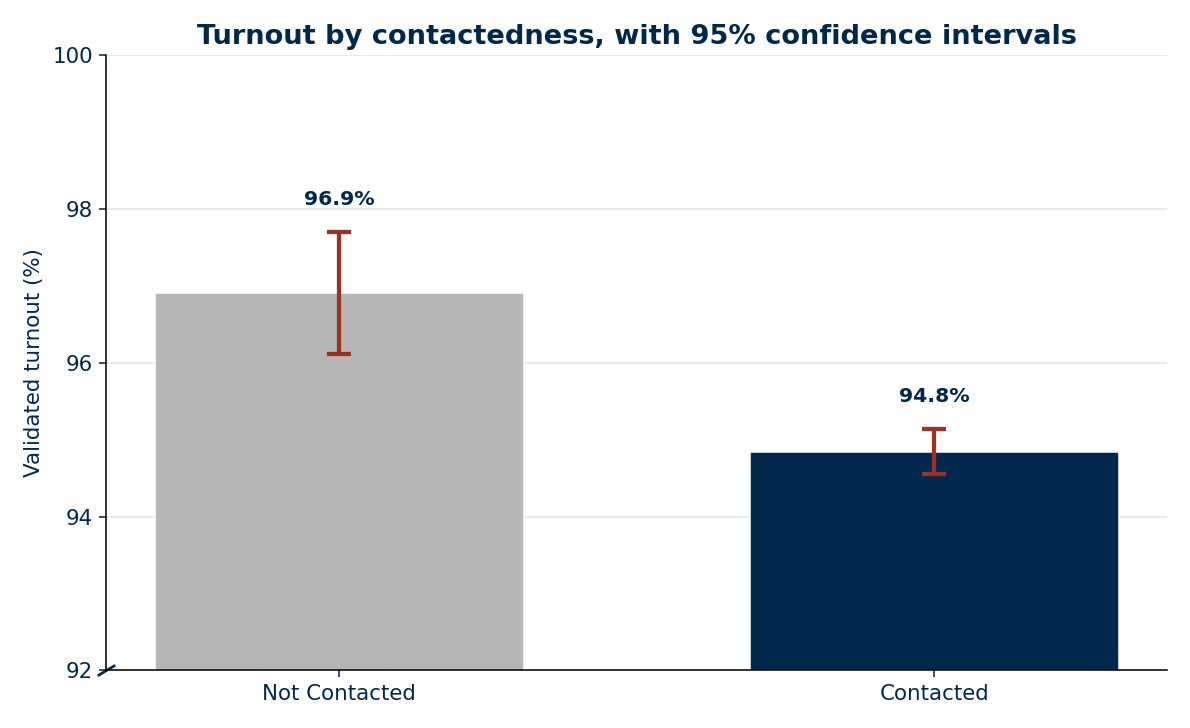
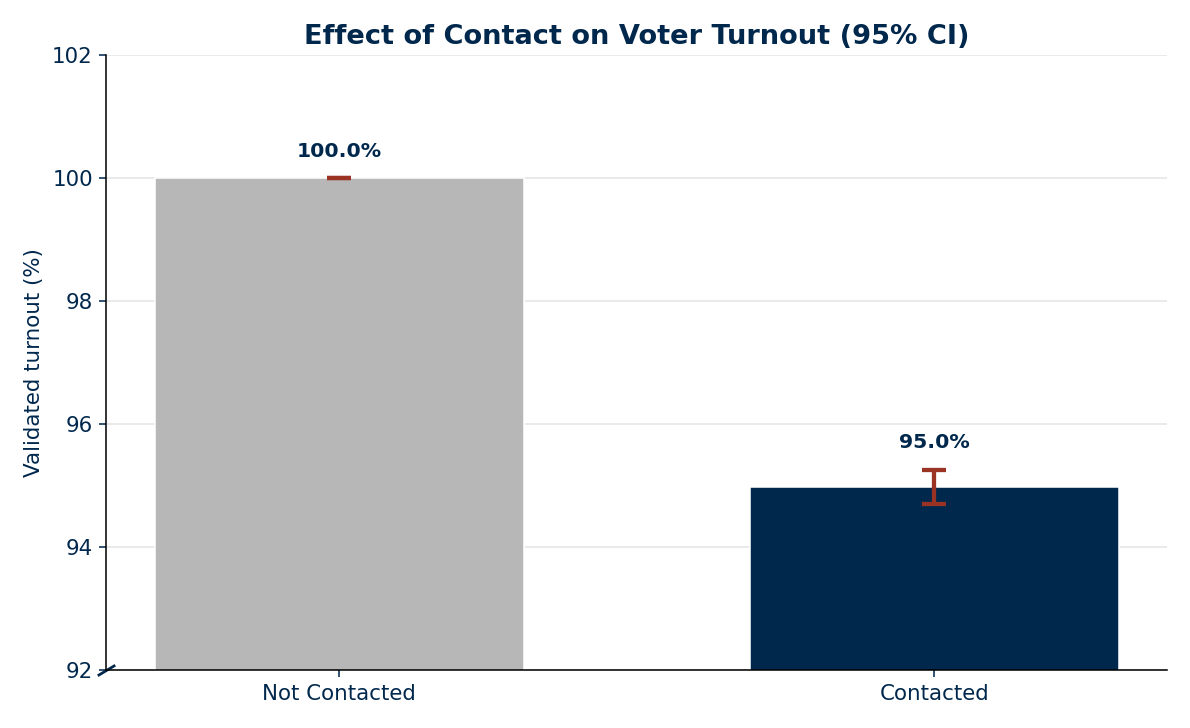
Updated figure 2's color of effect

diff --git a/capstone/visualization/report_fig4_real.py b/capstone/visualization/report_fig4_real.py
@@ -24,7 +24,7 @@ from typing import Any, cast
 from capstone.data_cleaning import load_full_dataframe
 from capstone.helper_functions import load_model_config, setup_logger
 from capstone.logistic_regression import train_model
-from capstone.visualization.visuals import OUTPUT_DIR, PLT_PARAMS, ColorScheme
+from capstone.visualization.visuals import OUTPUT_DIR, PLT_PARAMS, ColorScheme, ensure_output_dir
 
 REFERENCE_ID_LAW = "No Document Required to Vote"
 
@@ -203,12 +203,14 @@ def fig_marginal_effects(effects: DataFrame) -> None:
     y_positions = np.arange(len(effects) - 1, -1, -1)
 
     for y_position, row in zip(y_positions, effects.itertuples()):
-        point_color = ColorScheme.TAPPAN_RD if row.type == "strictness" else ColorScheme.UM_BLUE
 
         # Force float types
         effect = float(cast(Any, row.effect))
         lower = float(cast(Any, row.lower))
         upper = float(cast(Any, row.upper))
+
+        # Determine point color based on effect
+        point_color = ColorScheme.TAPPAN_RD if effect < 0 else ColorScheme.UM_BLUE
 
         lower_error = effect - lower
         upper_error = upper - effect
@@ -270,7 +272,7 @@ def fig_marginal_effects(effects: DataFrame) -> None:
 def generate_fig4(config: dict[Any, Any]) -> None:
     """Fit the logistic regression and create Figure 4."""
 
-    OUTPUT_DIR.mkdir(exist_ok=True)
+    ensure_output_dir()
 
     df = load_full_dataframe(config)
 

diff --git a/capstone/visualization/report_fig1_real.py b/capstone/visualization/report_fig1_real.py
@@ -13,7 +13,14 @@ from typing import Any
 
 from capstone.helper_functions import load_model_config, setup_logger
 from capstone.data_cleaning import load_full_dataframe
-from capstone.visualization.visuals import Y_LABEL, OUTPUT_DIR, PLT_PARAMS, ColorScheme, compute_turnout_by_category
+from capstone.visualization.visuals import (
+    Y_LABEL,
+    OUTPUT_DIR,
+    PLT_PARAMS,
+    ColorScheme,
+    compute_turnout_by_category,
+    ensure_output_dir,
+)
 
 # Bar colors
 FIVE_HUE = [ColorScheme.UM_BLUE, ColorScheme.ARB_BLUE, ColorScheme.RACK_GRN, ColorScheme.UMMA_TAN, ColorScheme.UM_MAIZE]
@@ -91,7 +98,7 @@ def fig_bars_zoom(s: DataFrame) -> None:
 def generate_fig1(config: dict[Any, Any]):
 
     # Make sure output directory exists
-    OUTPUT_DIR.mkdir(exist_ok=True)
+    ensure_output_dir()
 
     # Load the dataframe and collect statistics
     frame = load_full_dataframe(config)

diff --git a/capstone/visualization/report_fig2_real.py b/capstone/visualization/report_fig2_real.py
@@ -6,7 +6,14 @@ from typing import Any
 
 from capstone.helper_functions import load_model_config, setup_logger
 from capstone.data_cleaning import load_full_dataframe
-from capstone.visualization.visuals import Y_LABEL, OUTPUT_DIR, PLT_PARAMS, ColorScheme, compute_turnout_by_category
+from capstone.visualization.visuals import (
+    Y_LABEL,
+    OUTPUT_DIR,
+    PLT_PARAMS,
+    ColorScheme,
+    compute_turnout_by_category,
+    ensure_output_dir,
+)
 
 ORDER = ["Not Contacted", "Contacted"]
 LABEL = {"Not Contacted": "Not Contacted", "Contacted": "Contacted"}
@@ -70,7 +77,7 @@ def fig_bars_zoom(s: DataFrame) -> None:
 def generate_fig2(config: dict[Any, Any]):
 
     # Make sure output directory exists
-    OUTPUT_DIR.mkdir(exist_ok=True)
+    ensure_output_dir()
 
     # Load the dataframe and collect statistics
     frame = load_full_dataframe(config)

diff --git a/capstone/visualization/visuals.py b/capstone/visualization/visuals.py
@@ -19,7 +19,10 @@ class ColorScheme(StrEnum):
     LIGHT_GRAY = "#E5E5E5"
 
 
-OUTPUT_DIR = Path("docs/assets")
+# Anchor to repo root so scripts work regardless of cwd.
+# visuals.py lives at <repo>/capstone/visualization/visuals.py
+PROJECT_ROOT = Path(__file__).resolve().parents[2]
+OUTPUT_DIR = PROJECT_ROOT / "docs" / "assets"
 
 PLT_PARAMS: dict[str, object] = {
     "figure.dpi": 140,
@@ -39,6 +42,12 @@ PLT_PARAMS: dict[str, object] = {
 }
 
 Y_LABEL = "Validated turnout (%)"
+
+
+def ensure_output_dir(path: Path = OUTPUT_DIR) -> Path:
+    """Create the figure output directory if needed."""
+    path.mkdir(parents=True, exist_ok=True)
+    return path
 
 
 def compute_turnout_by_category(df: DataFrame, category: str, order: list[str]) -> DataFrame:

diff --git a/capstone/visualization/report_fig3_real.py b/capstone/visualization/report_fig3_real.py
@@ -6,7 +6,7 @@ from typing import Any
 
 from capstone.helper_functions import load_model_config, setup_logger
 from capstone.data_cleaning import load_full_dataframe
-from capstone.visualization.visuals import ColorScheme, OUTPUT_DIR, PLT_PARAMS, Y_LABEL
+from capstone.visualization.visuals import ColorScheme, OUTPUT_DIR, PLT_PARAMS, Y_LABEL, ensure_output_dir
 
 ORDER = [
     "No Document Required to Vote",
@@ -61,7 +61,7 @@ def fig_bars_zoom(df: DataFrame) -> None:
 def generate_fig3(config: dict[Any, Any]):
 
     # Make sure output directory exists
-    OUTPUT_DIR.mkdir(exist_ok=True)
+    ensure_output_dir()
 
     # Load the dataframe and collect statistics
     frame = load_full_dataframe(config)
